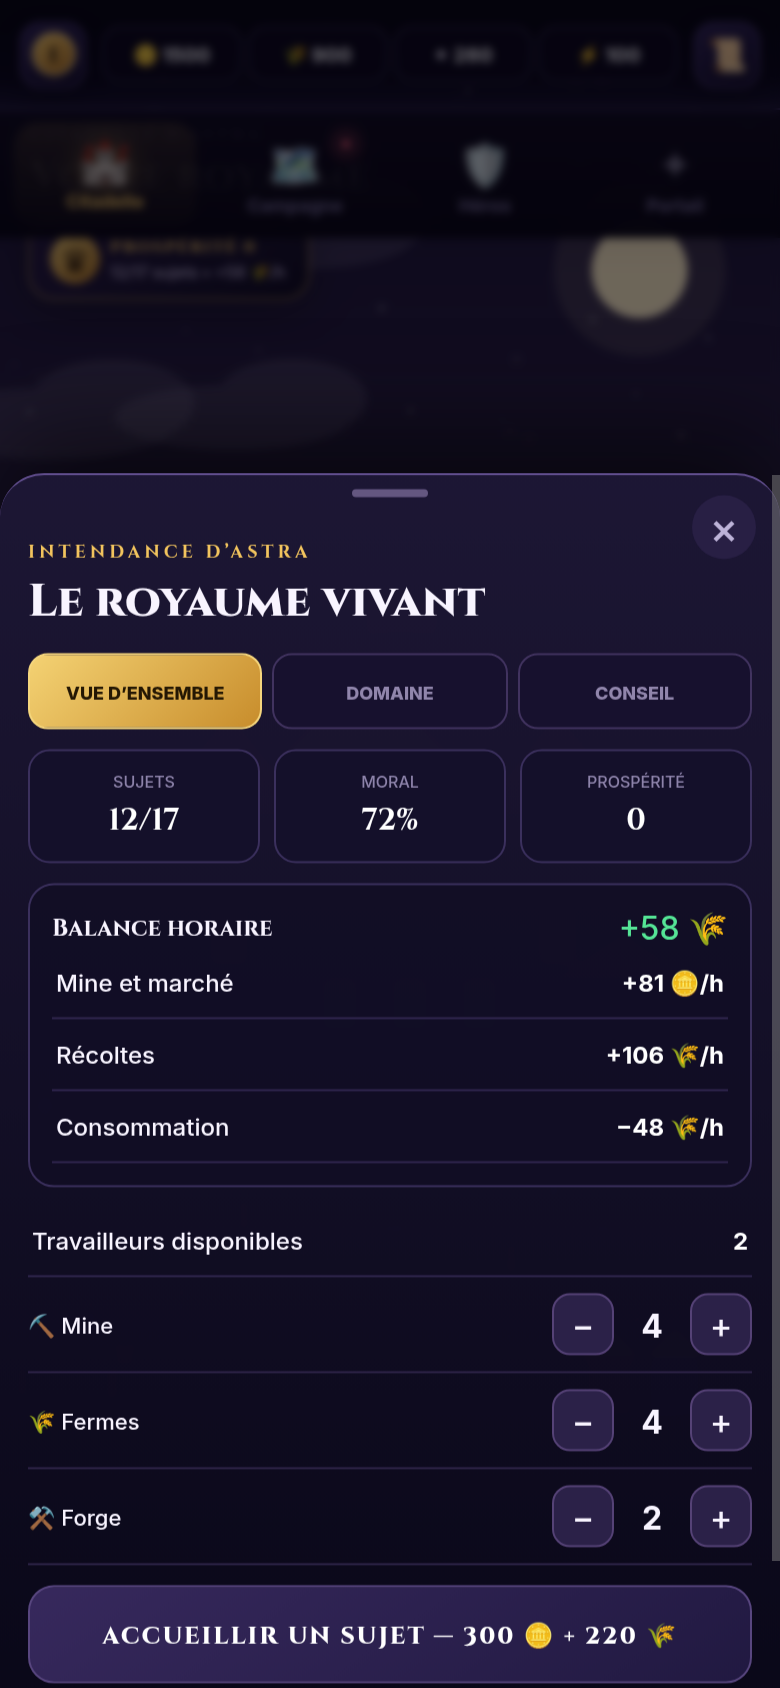
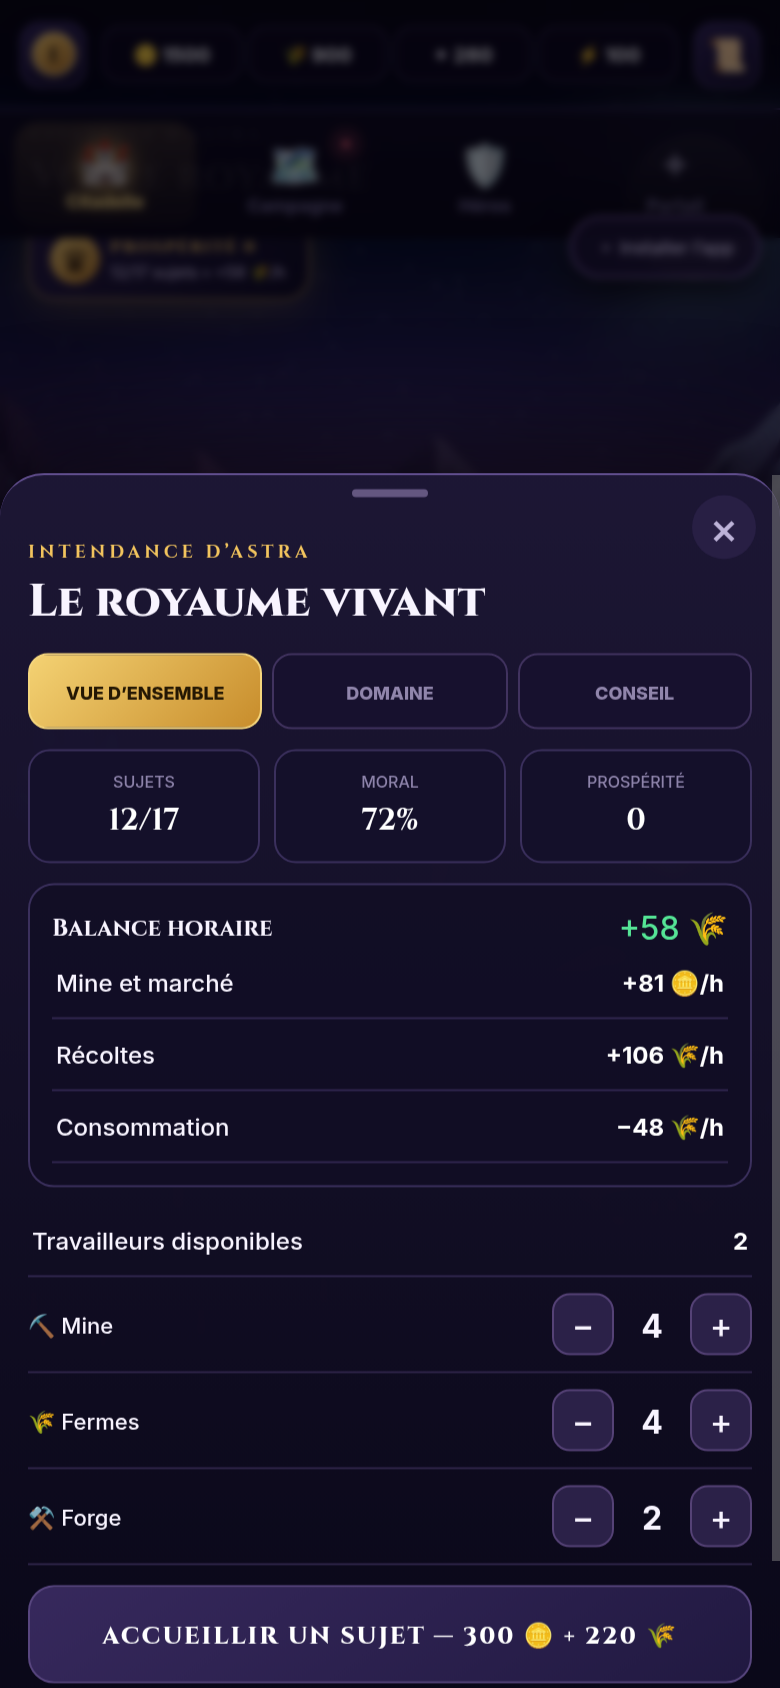
🎨 v5.1 — Citadelle dark fantasy peinte

Changed region(s): [[0.7385, 0.1232, 0.8923, 0.2156]]

diff --git a/game.js b/game.js
@@ -187,6 +187,9 @@
     unitSprites[key] = image;
   }
   const battleBackgrounds = {};
+  const baseBackground = new Image();
+  baseBackground.decoding = 'async';
+  baseBackground.src = 'assets/environments/citadel.webp';
   const forestBackground = new Image();
   forestBackground.decoding = 'async';
   forestBackground.src = 'assets/environments/forest.webp';
@@ -587,6 +590,7 @@
   function text(txt,x,y,size,color='#fff',align='center',font='Inter',weight=700){ctx.fillStyle=color;ctx.textAlign=align;ctx.font=`${weight} ${size}px ${font}`;ctx.fillText(txt,x,y);}
   function gradient(top,bottom){const g=ctx.createLinearGradient(0,0,0,H);g.addColorStop(0,top);g.addColorStop(1,bottom);ctx.fillStyle=g;ctx.fillRect(0,0,W,H);}
   function drawImageCover(image,x,y,w,h){const scale=Math.max(w/image.naturalWidth,h/image.naturalHeight),sw=w/scale,sh=h/scale,sx=(image.naturalWidth-sw)/2,sy=(image.naturalHeight-sh)/2;ctx.drawImage(image,sx,sy,sw,sh,x,y,w,h);}
+  function imageCoverPoint(image,nx,ny){const scale=Math.max(W/image.naturalWidth,H/image.naturalHeight),rw=image.naturalWidth*scale,rh=image.naturalHeight*scale;return{x:(W-rw)/2+nx*rw,y:(H-rh)/2+ny*rh};}
   function drawStars(t,alpha=1,maxY=.75){for(const s of stars){ctx.globalAlpha=(.25+.75*Math.abs(Math.sin(t*.001+s.p)))*alpha;ctx.fillStyle='#fff';ctx.fillRect(s.x*W,s.y*H*maxY,s.s,s.s);}ctx.globalAlpha=1;}
   function drawParticles(dt){
     for(let i=particles.length-1;i>=0;i--){const p=particles[i];p.life-=dt;if(p.life<=0){particles.splice(i,1);continue;}p.x+=p.vx*dt;p.y+=p.vy*dt;p.vy+=p.gravity*dt;ctx.globalAlpha=clamp(p.life/p.max,0,1);ctx.fillStyle=p.color;ctx.beginPath();ctx.arc(p.x,p.y,p.size,0,Math.PI*2);ctx.fill();}ctx.globalAlpha=1;
@@ -594,6 +598,7 @@
   }
 
   function drawBase(t,dt) {
+    if(baseBackground.complete&&baseBackground.naturalWidth){drawPaintedBase(t,dt);return;}
     hotspots=[];gradient('#161232','#5b4267');drawStars(t,.65,.48);
     const moonX=W*.82,moonY=H*.16;ctx.fillStyle='#fff1c8';ctx.beginPath();ctx.arc(moonX,moonY,24,0,Math.PI*2);ctx.fill();ctx.fillStyle='rgba(255,241,200,.12)';ctx.beginPath();ctx.arc(moonX,moonY,43,0,Math.PI*2);ctx.fill();
     for(const c of clouds){c.x+=c.v*dt;if(c.x>1.2)c.x=-.25;ctx.globalAlpha=.12;ctx.fillStyle='#efeaff';ctx.beginPath();ctx.ellipse(c.x*W,c.y*H,50*c.s,14*c.s,0,0,Math.PI*2);ctx.ellipse(c.x*W+25*c.s,c.y*H-8*c.s,32*c.s,17*c.s,0,0,Math.PI*2);ctx.fill();}ctx.globalAlpha=1;
@@ -610,6 +615,33 @@
     const defs=[['castle',W*.47,H*.45,'CHÂTEAU'],['mine',W*.13,H*.62,'MINE'],['forge',W*.80,H*.56,'FORGE'],['guild',W*.16,H*.79,'HÉROS'],['farm',W*.50,H*.78,'FERMES'],['market',W*.80,H*.78,'MARCHÉ']];
     for(const [key,x,y,label] of defs){hotspots.push({type:'building',key,x,y,r:42});ctx.save();ctx.translate(x,y-45);ctx.scale(basePulse,basePulse);ctx.fillStyle='rgba(12,9,28,.82)';rounded(-34,-10,68,20,9);ctx.fill();ctx.strokeStyle='#7c679f';ctx.stroke();text(label,0,4,7,'#e9ddff');ctx.restore();}
     if(S.production>=1){const x=W*.13,y=H*.53;ctx.fillStyle='#f2c45e';ctx.beginPath();ctx.arc(x,y,16+Math.sin(t*.005)*2,0,Math.PI*2);ctx.fill();text('🪙',x,y+5,15,'#201401');hotspots.push({type:'collect',x,y,r:28});}
+    drawParticles(dt);
+  }
+
+  function drawPaintedBase(t,dt){
+    hotspots=[];
+    drawImageCover(baseBackground,0,0,W,H);
+    // Vignettes preserve HUD readability while leaving the painted landmarks vivid.
+    const shade=ctx.createLinearGradient(0,0,0,H);shade.addColorStop(0,'rgba(5,4,17,.34)');shade.addColorStop(.18,'rgba(5,4,17,.02)');shade.addColorStop(.72,'rgba(5,4,17,0)');shade.addColorStop(1,'rgba(5,4,17,.48)');ctx.fillStyle=shade;ctx.fillRect(0,0,W,H);
+    const edge=ctx.createRadialGradient(W*.5,H*.48,W*.15,W*.5,H*.48,W*.72);edge.addColorStop(.55,'rgba(5,3,14,0)');edge.addColorStop(1,'rgba(5,3,14,.34)');ctx.fillStyle=edge;ctx.fillRect(0,0,W,H);
+    // Fireflies and moon dust add life without hiding the generated art.
+    for(let i=0;i<18;i++){const phase=t*.00035+i*1.73,x=((i*83)%101)/100*W+Math.sin(phase*1.7+i)*7,y=H*(.28+((i*47)%58)/100)+Math.cos(phase+i)*5;ctx.globalAlpha=.16+.38*(.5+.5*Math.sin(phase*4+i));ctx.fillStyle=i%4===0?'#76d9ff':'#f5ce72';ctx.beginPath();ctx.arc(x,y,1+(i%3)*.35,0,Math.PI*2);ctx.fill();}ctx.globalAlpha=1;
+    // A quiet mist layer provides depth and subtle parallax.
+    for(let i=0;i<4;i++){const y=H*(.38+i*.13),x=((t*.004+i*137)%(W+180))-90;ctx.globalAlpha=.035+i*.008;ctx.fillStyle='#d9d4ff';ctx.beginPath();ctx.ellipse(x,y,95+i*13,10+i*2,0,0,Math.PI*2);ctx.fill();}ctx.globalAlpha=1;
+    const defs=[
+      ['castle',.45,.50,'CHÂTEAU','#f2c45e',64],['mine',.15,.46,'MINE','#70d4ff',39],
+      ['forge',.76,.50,'FORGE','#ff9258',48],['guild',.13,.65,'HÉROS','#b78aff',43],
+      ['farm',.50,.65,'FERMES','#e7c45a',45],['market',.76,.70,'MARCHÉ','#ed8b9d',44]
+    ];
+    const pulse=.5+.5*Math.sin(t*.004);
+    for(const [key,nx,ny,label,color,offset] of defs){
+      const p=imageCoverPoint(baseBackground,nx,ny),lx=clamp(p.x+(key==='mine'?22:0),40,W-40),ly=p.y-offset;
+      hotspots.push({type:'building',key,x:p.x,y:p.y,r:key==='castle'?58:44});
+      ctx.globalAlpha=.16+pulse*.08;ctx.strokeStyle=color;ctx.lineWidth=5;ctx.beginPath();ctx.ellipse(p.x,p.y+12,key==='castle'?48:31,key==='castle'?17:11,0,0,Math.PI*2);ctx.stroke();ctx.globalAlpha=1;
+      ctx.save();ctx.translate(lx,ly);ctx.fillStyle='rgba(9,7,24,.88)';rounded(-38,-12,76,24,10);ctx.fill();ctx.strokeStyle=color;ctx.lineWidth=1;ctx.stroke();ctx.fillStyle=color;ctx.beginPath();ctx.arc(-29,0,3,0,Math.PI*2);ctx.fill();text(label,4,3,8,'#f8f4ff','center','Cinzel',800);ctx.fillStyle='rgba(9,7,24,.96)';ctx.beginPath();ctx.arc(32,-9,8,0,Math.PI*2);ctx.fill();ctx.strokeStyle=color;ctx.stroke();text(String(S.buildings[key]),32,-6,7,color);ctx.restore();
+    }
+    for(const p of walkers){p.x+=p.v*dt/W;if(p.x<-.05)p.x=1.05;if(p.x>1.05)p.x=-.05;drawTinyPerson(p.x*W,p.y*H,p.color,t+p.x*9);}
+    if(S.production>=1){const p=imageCoverPoint(baseBackground,.15,.46),x=clamp(p.x+25,25,W-25),y=p.y-3;ctx.fillStyle='#f2c45e';ctx.shadowColor='#f2c45e';ctx.shadowBlur=14;ctx.beginPath();ctx.arc(x,y,15+Math.sin(t*.005)*1.5,0,Math.PI*2);ctx.fill();ctx.shadowBlur=0;text('🪙',x,y+5,14,'#201401');hotspots.push({type:'collect',x,y,r:27});}
     drawParticles(dt);
   }
 
@@ -767,7 +799,7 @@
     toggleSound(){S.sound=!S.sound;saveState();$('sheetClose').click();$('profileBtn').click();},
     toggleHaptics(){S.haptics=!S.haptics;saveState();$('sheetClose').click();$('profileBtn').click();}
   };
-  window.__EE_TEST__={getState:()=>JSON.parse(JSON.stringify(S)),getScene:()=>scene,teamPower,kingdomRates,showKingdom,assignWorker,setDecree,fulfillOrder,startMission,useSkill,triggerTiming,resolveTiming,finishBattle,switchScene,reset(){localStorage.removeItem(SAVE_KEY);location.reload();}};
+  window.__EE_TEST__={getState:()=>JSON.parse(JSON.stringify(S)),getScene:()=>scene,getHotspots:()=>JSON.parse(JSON.stringify(hotspots)),baseArtReady:()=>!!(baseBackground.complete&&baseBackground.naturalWidth),teamPower,kingdomRates,showKingdom,assignWorker,setDecree,fulfillOrder,startMission,useSkill,triggerTiming,resolveTiming,finishBattle,switchScene,reset(){localStorage.removeItem(SAVE_KEY);location.reload();}};
 
   // Démarrage
   refreshHUD();switchScene('base');

diff --git a/styles.css b/styles.css
@@ -22,14 +22,14 @@ button:disabled{filter:grayscale(.75);opacity:.45;cursor:not-allowed}
 #sceneTitle{position:absolute;top:calc(62px + var(--safe-top));left:15px;pointer-events:none;text-shadow:0 2px 8px #000;transition:opacity .2s}#sceneTitle small{display:block;color:#c3b4e4;font:700 8px Cinzel;letter-spacing:2px}#sceneTitle strong{display:block;color:#fff;font:800 20px Cinzel;letter-spacing:.4px;margin-top:2px}
 #kingdomBtn{position:absolute;top:calc(108px + var(--safe-top));left:14px;min-height:42px;padding:6px 11px 6px 40px;border:1px solid rgba(242,196,94,.52);border-radius:13px;background:linear-gradient(135deg,rgba(40,29,67,.94),rgba(13,10,29,.9));box-shadow:0 7px 22px rgba(0,0,0,.32);pointer-events:auto;text-align:left;z-index:18}#kingdomBtn>span{position:absolute;left:10px;top:8px;width:25px;height:25px;display:grid;place-items:center;border-radius:50%;background:linear-gradient(145deg,#f4ce70,#a97020);color:#261604}#kingdomBtn b{display:block;font:800 8px Cinzel;letter-spacing:1px;color:var(--gold)}#kingdomBtn small{display:block;margin-top:2px;color:#c6badc;font-size:8px}#kingdomBtn.alert{animation:kingdomPulse 1.5s infinite}@keyframes kingdomPulse{50%{box-shadow:0 0 22px rgba(242,196,94,.5)}}
 #bottomNav{height:calc(65px + var(--safe-bottom));padding:4px 7px var(--safe-bottom);display:flex;gap:4px;align-items:center;background:linear-gradient(180deg,rgba(12,9,25,.88),rgba(7,5,16,.99));border-top:1px solid #3a2d5f;pointer-events:auto;z-index:30;box-shadow:0 -8px 24px rgba(0,0,0,.3)}
-#bottomNav button{position:relative;flex:1;height:53px;background:transparent;color:#746b96;border-radius:12px;transition:.18s transform,.18s color,.18s background;display:flex;flex-direction:column;align-items:center;justify-content:center;gap:2px}#bottomNav button span{font-size:21px;filter:grayscale(.5)}#bottomNav button b{font-size:9px}#bottomNav button.active{color:var(--gold);background:linear-gradient(180deg,rgba(242,196,94,.13),rgba(242,196,94,.02));transform:translateY(-2px)}#bottomNav button.active span{filter:none;filter:drop-shadow(0 0 7px rgba(242,196,94,.5))}#bottomNav button i{right:16px;top:5px}
+#bottomNav button{position:relative;flex:1;height:53px;background:transparent;color:#746b96;border-radius:12px;transition:.18s transform,.18s color,.18s background;display:flex;flex-direction:column;align-items:center;justify-content:center;gap:2px}#bottomNav button span{font-size:21px;filter:grayscale(.5)}#bottomNav button b{font-size:9px}#bottomNav button.active{color:#ffe083;background:linear-gradient(180deg,rgba(242,196,94,.16),rgba(242,196,94,.025));transform:translateY(-2px);text-shadow:0 0 9px rgba(242,196,94,.48)}#bottomNav button.active span{filter:none;filter:drop-shadow(0 0 7px rgba(242,196,94,.5))}#bottomNav button i{right:16px;top:5px}
 #battleHUD{position:absolute;top:calc(57px + var(--safe-top));left:8px;right:8px;height:45px;display:flex;align-items:center;border:1px solid rgba(99,79,150,.45);border-radius:13px;background:rgba(7,6,17,.83);backdrop-filter:blur(7px);overflow:hidden}.battleSide{flex:1;padding:6px 10px;display:flex;align-items:center;justify-content:space-between}.battleSide span{font:700 7px Cinzel;letter-spacing:1px}.battleSide b{font:800 17px Cinzel}.battleSide.ally{color:var(--green)}.battleSide.enemy{color:var(--red);flex-direction:row-reverse}.battleTimer{width:95px;text-align:center;border-left:1px solid #34294f;border-right:1px solid #34294f}.battleTimer span{display:block;color:#afa4cf;font-size:7px;letter-spacing:1px}.battleTimer b{display:block;font:700 14px Cinzel;color:white;margin-top:2px}
 #combatActions{position:absolute;left:8px;right:8px;bottom:calc(69px + var(--safe-bottom));height:78px;display:flex;gap:6px;pointer-events:auto;z-index:25}.skill{position:relative;flex:1;overflow:hidden;border:1px solid #584780;border-radius:13px;background:linear-gradient(145deg,rgba(37,28,67,.96),rgba(13,10,30,.96));display:flex;flex-direction:column;align-items:center;justify-content:center;box-shadow:0 5px 14px rgba(0,0,0,.35)}.skill:active{transform:scale(.95)}.skill.ready{border-color:var(--gold);box-shadow:0 0 15px rgba(242,196,94,.35)}.skillIcon{width:34px;height:34px;display:grid;place-items:center;z-index:2}.skillIcon img{display:block;width:34px;height:34px;object-fit:contain;filter:drop-shadow(0 2px 4px rgba(0,0,0,.6))}.skill b{font-size:9px;color:#fff;z-index:2}.skill small{font-size:7px;color:#9e94be;z-index:2}.skill .cooldown{position:absolute;inset:0;background:rgba(4,3,10,.72);transform-origin:bottom;pointer-events:none}.skill.ready .cooldown{display:none}#comboMeter{width:54px;border-radius:13px;background:rgba(7,6,17,.92);border:1px solid #3d315d;display:flex;flex-direction:column;align-items:center;justify-content:center}#comboMeter span{font:700 7px Cinzel;color:#978caf}#comboMeter b{font:800 20px Cinzel;color:var(--gold)}
 #sheetBackdrop{position:fixed;inset:0;background:rgba(3,2,10,.58);z-index:40;backdrop-filter:blur(2px)}#sheet{position:fixed;left:0;right:0;bottom:0;z-index:41;max-height:min(72vh,650px);padding:18px 14px calc(16px + var(--safe-bottom));border-radius:22px 22px 0 0;background:linear-gradient(180deg,rgba(29,23,53,.99),rgba(10,8,25,.99));border-top:1px solid #624f8f;box-shadow:0 -18px 50px rgba(0,0,0,.55);overflow-y:auto;animation:sheetIn .22s cubic-bezier(.2,.8,.2,1)}@keyframes sheetIn{from{transform:translateY(100%)}to{transform:translateY(0)}}.grabber{position:absolute;top:7px;left:50%;width:38px;height:4px;border-radius:3px;transform:translateX(-50%);background:#645780}#sheetClose{position:absolute;right:12px;top:10px;width:32px;height:32px;border-radius:50%;background:#281f44;color:#bdb3d8;font-size:22px}#sheetContent{padding-top:14px}.sheetEyebrow{font:700 9px Cinzel;letter-spacing:2px;color:var(--gold)}.sheetTitle{font:800 23px Cinzel;margin:4px 38px 8px 0}.sheetLead{color:#aaa0c4;font-size:12px;line-height:1.5;margin-bottom:13px}.statGrid{display:grid;grid-template-columns:repeat(3,1fr);gap:7px;margin:10px 0}.stat{padding:10px 7px;border:1px solid #3b305d;background:#14102a;border-radius:11px;text-align:center}.stat small{display:block;color:#8d83aa;font-size:8px}.stat b{display:block;color:#fff;font:700 15px Cinzel;margin-top:4px}.row{display:flex;justify-content:space-between;gap:8px;align-items:center;padding:10px 2px;border-bottom:1px solid #30264e;font-size:12px}.row small{color:#978dac}.row b{color:#fff}.primaryButton,.secondaryButton{width:100%;min-height:49px;margin-top:10px;border-radius:13px;font:800 12px Cinzel;letter-spacing:1px}.primaryButton{color:#221503;background:linear-gradient(135deg,#ffd879,#d7972a);box-shadow:0 7px 20px rgba(218,156,47,.28);border:1px solid #ffe5a0}.secondaryButton{color:white;background:linear-gradient(145deg,#37295d,#211941);border:1px solid #58467f}.dangerButton{background:linear-gradient(135deg,#ff7580,#a9243a);color:#fff}
 .kingdomTabs{display:grid;grid-template-columns:repeat(3,1fr);gap:5px;margin:10px 0}.kingdomTabs button{min-height:38px;border:1px solid #41335f;border-radius:10px;background:#17112e;color:#9186ac;font-size:9px;font-weight:800}.kingdomTabs button.active{color:#241703;border-color:#f5d67d;background:linear-gradient(135deg,#f4d273,#c88d2c)}.balanceCard,.decreeCard,.orderCard{margin:9px 0;padding:11px;border:1px solid #3b305d;border-radius:13px;background:rgba(17,13,37,.82)}.balanceHead,.workerLine{display:flex;justify-content:space-between;align-items:center;gap:8px}.balanceHead b,.decreeCard b,.orderCard b{font:700 12px Cinzel}.balanceHead span,.positive{color:var(--green)}.negative{color:var(--red)}.workerLine{padding:8px 0;border-bottom:1px solid #2f2549}.workerLine:last-child{border:0}.workerLine>span{font-size:11px}.workerControls{display:flex;align-items:center;gap:8px}.workerControls button{width:31px;height:31px;border:1px solid #554276;border-radius:9px;background:#2b2148;font-size:17px}.workerControls b{min-width:22px;text-align:center}.decreeCard.active{border-color:var(--gold);box-shadow:inset 3px 0 var(--gold)}.decreeCard p,.orderCard p{margin:5px 0;color:#aaa0c4;font-size:10px;line-height:1.45}.decreeCard button,.orderCard button{width:100%;min-height:36px;margin-top:5px;border:1px solid #59447d;border-radius:9px;background:#30234f;font-size:9px;font-weight:800}.orderCard.ready{border-color:#6dba8e}.orderReward{color:var(--gold)!important;font-weight:700}.milestone{display:flex;gap:10px;align-items:center;padding:8px 0}.milestone>span{width:31px;height:31px;display:grid;place-items:center;border-radius:50%;background:#21183b}.milestone.locked{opacity:.45}.miniProgress{height:6px;margin-top:6px;border-radius:5px;background:#2e2545;overflow:hidden}.miniProgress i{display:block;height:100%;background:linear-gradient(90deg,#8b5cf6,#f2c45e)}.rewardPills{display:flex;gap:6px;flex-wrap:wrap;margin:9px 0}.pill{padding:7px 10px;border-radius:20px;background:#18122e;border:1px solid #403461;color:#dcd4f0;font-size:10px}.progress{height:7px;background:#100c20;border-radius:5px;overflow:hidden;margin:5px 0}.progress i{display:block;height:100%;border-radius:5px;background:linear-gradient(90deg,var(--violet),var(--gold));transition:width .3s}.quest{padding:11px;border:1px solid #3b305a;border-radius:12px;background:#141027;margin:7px 0}.quest.done{border-color:#89703d;background:linear-gradient(145deg,#231b30,#171124)}.questHead{display:flex;justify-content:space-between;font-size:11px}.questHead b{color:#fff}.questHead span{color:var(--gold)}.quest p{font-size:9px;color:#89809f;margin-top:4px}.quest button{margin-top:7px;padding:7px 12px;border-radius:8px;background:var(--gold);color:#201401;font-weight:800;font-size:9px}.heroCard{position:relative;display:grid;grid-template-columns:58px 1fr auto;gap:10px;align-items:center;padding:10px;margin:8px 0;border:1px solid #453769;border-radius:14px;background:linear-gradient(145deg,#1d1638,#110d25)}.portrait{width:58px;height:58px;border-radius:13px;display:grid;place-items:center;font-size:31px;background:radial-gradient(circle at 50% 35%,#5a488a,#1b1433);border:1px solid #755ba3}.heroMeta h3{font:700 13px Cinzel}.heroMeta small{display:block;color:#978dac;font-size:9px;margin-top:3px}.heroPower{text-align:right;color:var(--gold);font:700 13px Cinzel}.heroPower button{display:block;margin-top:6px;padding:6px 8px;border-radius:7px;background:#3b2d60;color:#fff;font-size:8px}
 #timingEvent{position:fixed;inset:0;z-index:60;display:grid;place-items:center;background:rgba(3,2,11,.82);overflow:hidden}.timingVignette{position:absolute;inset:0;background:radial-gradient(circle at 50% 56%,rgba(116,62,224,.32),rgba(0,0,0,.93) 60%)}.timingCopy{position:absolute;top:18%;text-align:center;padding:0 25px}.timingCopy small{font:800 9px Cinzel;letter-spacing:3px;color:#bdaaf0}.timingCopy h2{font:800 25px Cinzel;color:var(--gold);margin:7px 0;text-shadow:0 0 25px #8b5cf6}.timingCopy p{font-size:11px;color:#b6adc9}#timingTarget{position:relative;width:105px;height:105px;border:4px solid rgba(242,196,94,.9);border-radius:50%;display:grid;place-items:center;color:#fff;font:800 11px Cinzel;box-shadow:0 0 35px rgba(242,196,94,.25);z-index:2}#timingRing{position:absolute;width:260px;height:260px;border-radius:50%;border:5px solid #a56cff;box-shadow:0 0 25px #8b5cf6, inset 0 0 18px #8b5cf6}#timingGrade{position:absolute;bottom:23%;font:800 27px Cinzel;color:white;text-shadow:0 0 18px #fff}
 #resultScreen,#offlineReward{position:fixed;inset:0;z-index:70;display:grid;place-items:center;padding:20px;background:radial-gradient(circle at 50% 35%,rgba(71,47,120,.45),rgba(3,2,10,.95) 70%);backdrop-filter:blur(5px)}.resultCard,.offlineCard{width:min(360px,100%);padding:25px 20px;border:1px solid #6c578e;border-radius:20px;background:linear-gradient(160deg,#241a42,#0f0b22);text-align:center;box-shadow:0 20px 70px #000}.resultCard small,.offlineCard small{font:700 9px Cinzel;letter-spacing:2px;color:#b7a9d7}.resultCard h1{font:800 34px Cinzel;color:var(--gold);margin:5px 0}.resultCard p,.offlineCard p{color:#a89fbd;font-size:11px;line-height:1.5}.resultCard #resultStars{font-size:34px;letter-spacing:5px;color:var(--gold);margin:7px 0}.resultCard #resultLoot{display:flex;justify-content:center;flex-wrap:wrap;gap:6px;margin:15px 0}.resultCard #resultLoot span{padding:8px;border:1px solid #46375f;border-radius:10px;background:#130f27}.offlineCard>span{display:block;font-size:48px;margin-bottom:7px}.offlineCard h2{font:700 23px Cinzel;color:var(--gold);margin:7px 0 10px}
-#toast{position:fixed;top:calc(64px + var(--safe-top));left:50%;z-index:100;max-width:90%;padding:9px 15px;border:1px solid #876bb9;border-radius:22px;background:rgba(23,17,45,.96);box-shadow:0 8px 30px rgba(0,0,0,.5);transform:translate(-50%,-25px);opacity:0;pointer-events:none;color:#fff;font-size:11px;font-weight:700;transition:.22s}#toast.show{transform:translate(-50%,0);opacity:1}#flash{position:fixed;inset:0;z-index:90;background:white;opacity:0;pointer-events:none;transition:opacity .16s}#installBtn{position:fixed;right:10px;bottom:calc(75px + var(--safe-bottom));z-index:38;padding:9px 12px;border:1px solid #8b6bbb;border-radius:18px;background:rgba(26,19,48,.95);font-size:9px;color:#e6dcff;box-shadow:0 6px 20px #000}
+#toast{position:fixed;top:calc(64px + var(--safe-top));left:50%;z-index:100;max-width:90%;padding:9px 15px;border:1px solid #876bb9;border-radius:22px;background:rgba(23,17,45,.96);box-shadow:0 8px 30px rgba(0,0,0,.5);transform:translate(-50%,-25px);opacity:0;pointer-events:none;color:#fff;font-size:11px;font-weight:700;transition:.22s}#toast.show{transform:translate(-50%,0);opacity:1}#flash{position:fixed;inset:0;z-index:90;background:white;opacity:0;pointer-events:none;transition:opacity .16s}#installBtn{position:fixed;right:10px;top:calc(108px + var(--safe-top));z-index:38;padding:9px 12px;border:1px solid #8b6bbb;border-radius:18px;background:rgba(26,19,48,.95);font-size:9px;color:#e6dcff;box-shadow:0 6px 20px #000}
 @media(min-width:700px){body{background:#05040d}#game,#appUI{left:50%;right:auto;width:430px;transform:translateX(-50%);box-shadow:0 0 80px #000}#sheet{left:50%;right:auto;width:430px;transform:translateX(-50%)}#sheetBackdrop{background:rgba(0,0,0,.7)}#timingEvent,#resultScreen,#offlineReward{left:50%;right:auto;width:430px;transform:translateX(-50%)}#toast{max-width:390px}}
 @media(max-height:700px){#sceneTitle{top:58px}.sheetTitle{font-size:19px}#combatActions{height:69px}.skillIcon{font-size:19px}}
 @media(max-width:390px){.brand{display:none}.resources{margin-left:0;flex:1}.resources span{flex:1;justify-content:center;padding:0 3px}.questButton{flex:0 0 33px}}

diff --git a/sw.js b/sw.js
@@ -1,11 +1,11 @@
-const CACHE = 'empire-eternal-v5.0.0';
+const CACHE = 'empire-eternal-v5.1.0';
 const APP_SHELL = [
   './', './index.html', './styles.css', './game.js', './manifest.webmanifest',
   './icons/icon-192.png', './icons/icon-512.png',
   './assets/units/allies/maeve.png', './assets/units/allies/lyra.png',
   './assets/units/allies/orion.png', './assets/units/enemies/brute.png',
   './assets/units/enemies/raider.png', './assets/units/enemies/caster.png',
-  './assets/environments/forest.webp', './assets/ui/skills/bulwark.png',
+  './assets/environments/forest.webp', './assets/environments/citadel.webp', './assets/ui/skills/bulwark.png',
   './assets/ui/skills/volley.png', './assets/ui/skills/nova.png'
 ];
 

diff --git a/kingdom_test.py b/kingdom_test.py
@@ -42,7 +42,10 @@ async def main():
         await send('Storage.clearDataForOrigin', {'origin': 'http://127.0.0.1:8080', 'storageTypes': 'all'})
         await send('Page.navigate', {'url': 'http://127.0.0.1:8080/?capture=base'})
         await asyncio.sleep(1.2)
-        initial = await evaluate("({state:__EE_TEST__.getState(),rates:__EE_TEST__.kingdomRates(),power:__EE_TEST__.teamPower()})")
+        initial = await evaluate("({state:__EE_TEST__.getState(),rates:__EE_TEST__.kingdomRates(),power:__EE_TEST__.teamPower(),art:__EE_TEST__.baseArtReady(),buildings:__EE_TEST__.getHotspots().filter(h=>h.type==='building').map(h=>h.key).sort()})")
+        base_image = await send('Page.captureScreenshot', {'format': 'png', 'fromSurface': True, 'captureBeyondViewport': False})
+        with open('/root/empire-eternal/v5-citadel-mobile.png', 'wb') as handle:
+            handle.write(base64.b64decode(base_image['result']['data']))
         await evaluate("__EE_TEST__.showKingdom('overview')")
         await asyncio.sleep(.15)
         overview = await evaluate("({open:!document.getElementById('sheet').classList.contains('hidden'),tabs:document.querySelectorAll('.kingdomTabs button').length,workers:document.querySelectorAll('.workerLine').length,title:document.querySelector('.sheetTitle').textContent})")
@@ -55,6 +58,7 @@ async def main():
         order = await evaluate("({state:__EE_TEST__.getState(),council:document.getElementById('sheetContent').textContent.includes('Requête accomplie')})")
         checks = {
             'v5_state': initial['state']['version'] == 5 and initial['state']['food'] >= 899,
+            'painted_citadel': initial['art'] and initial['buildings'] == ['castle', 'farm', 'forge', 'guild', 'market', 'mine'],
             'economy_positive': initial['rates']['gold'] > 0 and initial['rates']['foodNet'] > 0,
             'dashboard': overview == {'open': True, 'tabs': 3, 'workers': 3, 'title': 'Le royaume vivant'},
             'worker_assignment': changed['state']['kingdom']['workers']['mine'] == 5,

diff --git a/README.md b/README.md
@@ -44,3 +44,5 @@ Puis ouvrir `http://127.0.0.1:8080/`.
 - Le test automatisé couvre : navigation, coût d’énergie, compétences, Frappe temporelle, victoire, étoiles, déblocage de campagne, portail, amélioration de bâtiment, sauvegarde et Service Worker.
 
 Les unités de combat principales utilisent des sprites dark fantasy 2.5D originaux dans `assets/units/`, le Bois des murmures dispose d’un décor peint optimisé dans `assets/environments/` et les compétences utilisent des icônes dédiées dans `assets/ui/skills/`. Un rendu procédural de secours reste actif pour les héros, boss et biomes qui ne disposent pas encore d’un asset.
+
+La Citadelle utilise désormais un décor nocturne 2.5D peint, optimisé en WebP, avec six points d’intérêt alignés sur les zones tactiles du Canvas. Des halos, brumes, lucioles, habitants et marqueurs de niveau restent animés en temps réel au-dessus du décor. Le rendu géométrique précédent sert automatiquement de secours si l’image ne peut pas être chargée.